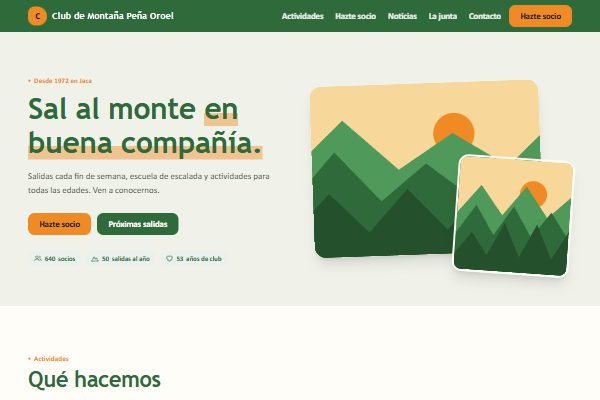
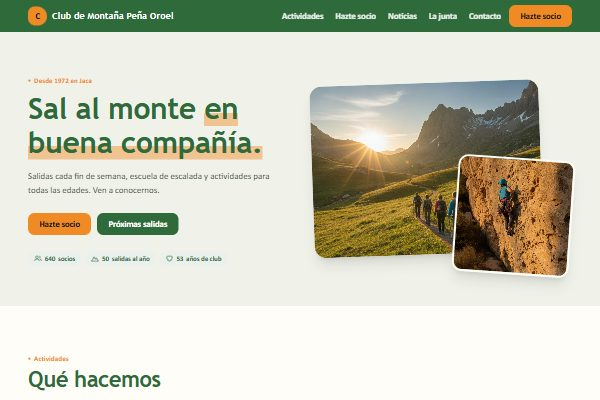
Fotos generadas con IA y previews nuevas (v1.1.0)

Changed region(s): [[0.51, 0.18, 0.96, 0.69]]

diff --git a/CLAUDE.md b/CLAUDE.md
@@ -41,3 +41,5 @@ Antes de dar una orden por buena: `npm run build` sin errores.
 - `hero.titulo_destacado`: final del titular subrayado. `hero.galeria[0]`: segunda foto del collage. `hero.items`: cifras en etiquetas.
 - `actividades.items[].cuando`: etiqueta de fecha/frecuencia.
 - `hazte-socio.cuota` {precio, periodo, nota} y `hazte-socio.items`: ventajas de ser socio.
+
+Fotos de partida en public/fotos/ (generadas con IA, sin derechos de terceros); los SVG de public/placeholders/ siguen de respaldo.
